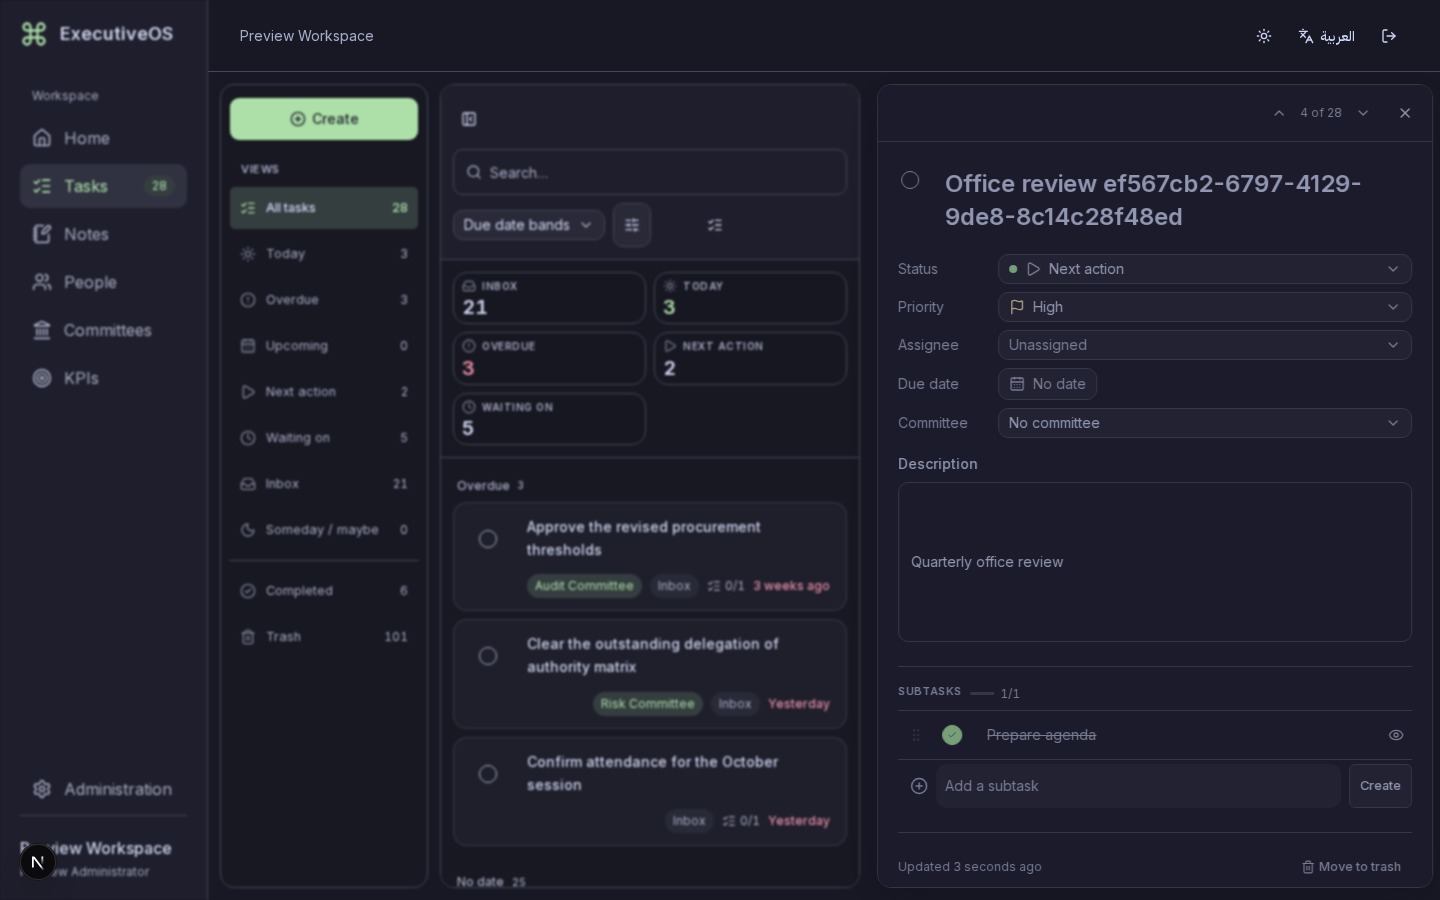
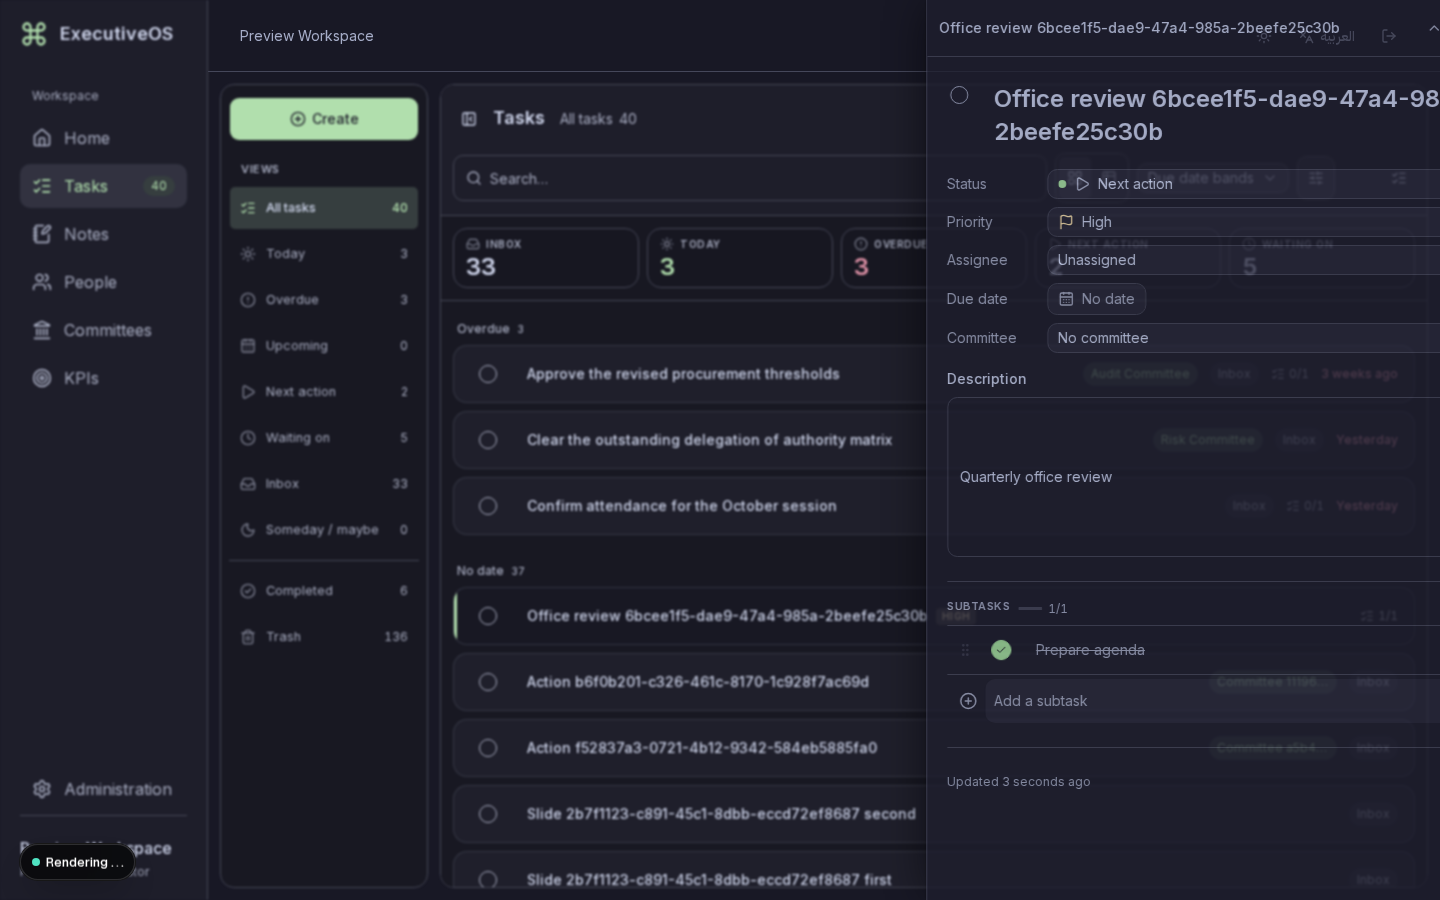
perf(entity): read and re-read a list without reloading it
EP-B30. Three things made these surfaces look like they were loading when they
were not.

Every piece of the entity URL — view, facets, sort, layout, the open record, the
selection — is read by the client surface and by nothing on the server, but it was
written through the router, so each of them fetched a route whose output cannot
change. Opening a record cost a server round-trip before the panel appeared. The
native history methods integrate with the router and useSearchParams, so back and
forward still work; the round-trips are gone (measured: one per open, now none).

A list whose query changed emptied to a placeholder and filled again. The reader
changed which question is being asked of the same records, not which records they
are looking at, so the previous page is held while the next loads and the rows
change where they stand. A genuine first load still shows the placeholder.

And every entity route's loading.tsx was a centred spinner, so opening Tasks went
spinner → placeholder rows → rows: three screens for one navigation, the first
looking nothing like the other two. Routes about to render a list now show the
shape of one. Measured in production: no spinner on any module, and a prefetched
navigation lands in 23–59 ms.

The record's renderer is still loaded on demand — a list route carries no chart
runtime it may never need — but the chunk is fetched once the list is on screen
rather than when a row is clicked.
[…]

diff --git a/src/ui/entity/use-entity-controller.ts b/src/ui/entity/use-entity-controller.ts
@@ -1,6 +1,6 @@
 'use client';
 import { useState, useEffect, useCallback, type RefObject } from 'react';
-import { usePathname, useRouter, useSearchParams } from 'next/navigation';
+import { usePathname, useSearchParams } from 'next/navigation';
 import { resolveUrlState, changeUrl, clearEntityFilters } from './url-state';
 import type { Entity, EntityPageProps, FiltersDef } from './types';
 import { useEntityNavigation } from './navigation';
@@ -11,7 +11,6 @@ export function useEntityController<T extends Entity, P extends object, C>(
   props: EntityPageProps<T, P, C>,
   root: RefObject<HTMLElement | null>,
 ) {
-  const router = useRouter();
   const path = usePathname();
   const params = useSearchParams();
   const guarded = useEntityNavigation();
@@ -28,7 +27,7 @@ export function useEntityController<T extends Entity, P extends object, C>(
   const [selecting, setSelecting] = useState(false);
   const [railOpen, setRailOpen] = useState(true);
   const [searchReset, setSearchReset] = useState(0);
-  const navigate = useGuardedNavigate(guarded, path, router);
+  const navigate = useGuardedNavigate(guarded, path);
   const close = useCallback(() => navigate({ id: null, new: null }), [navigate]);
   const neighbors = useEntityNeighbors(list, state.id, navigate);
   useDefaultView(list.defaultView, Boolean(state.id || state.creating));
@@ -71,21 +70,21 @@ export type EntityController<T extends Entity, P extends object, C> = ReturnType
   typeof useEntityController<T, P, C>
 >;
 
-function useGuardedNavigate(
-  guarded: (action: () => void) => void,
-  path: string,
-  router: ReturnType<typeof useRouter>,
-) {
+// EP-B30: every piece of state in this URL — the view, the filters, the open record, the selection
+// — is read by this client surface and by nothing on the server. Routing it through the router made
+// each of them a server round-trip for a route whose output never changes, which is why opening a
+// record fetched the page again before the panel appeared. The native history methods integrate
+// with the router and with `useSearchParams` (Next's linking guide, § Native History API), so back
+// and forward still work and the address bar still says what is on screen, without asking the
+// server to re-render a page it has no say in.
+function useGuardedNavigate(guarded: (action: () => void) => void, path: string) {
   return useCallback(
     (patch: Record<string, string | null>, replace = false) => {
       const query = changeUrl(new URLSearchParams(window.location.search), patch);
-      guarded(() =>
-        router[replace ? 'replace' : 'push'](`${path}${query ? '?' + query : ''}`, {
-          scroll: false,
-        }),
-      );
+      const url = `${path}${query ? '?' + query : ''}`;
+      guarded(() => window.history[replace ? 'replaceState' : 'pushState'](null, '', url));
     },
-    [guarded, path, router],
+    [guarded, path],
   );
 }
 type KeyboardArgs<T extends Entity> = {
@@ -125,16 +124,17 @@ function useControllerKeyboard<T extends Entity>(
 }
 function useDefaultView(defaultView: string | undefined, panel: boolean) {
   const params = useSearchParams();
-  const router = useRouter();
   const path = usePathname();
+  // EP-B30: this is client state, so the history entry is written directly rather than asking the
+  // server to re-render a route whose output it cannot change.
   // sync: record the module default view in the URL once counts arrive.
   useEffect(() => {
     if (!params.has('view') && !params.has('q') && defaultView && !panel) {
       const next = new URLSearchParams(params);
       next.set('view', defaultView);
-      router.replace(`${path}?${next}`, { scroll: false });
+      window.history.replaceState(null, '', `${path}?${next}`);
     }
-  }, [params, router, path, defaultView, panel]);
+  }, [params, path, defaultView, panel]);
 }
 function useEntityCreate<T extends Entity, C>(
   create: (input: C) => Promise<T | null>,

diff --git a/src/modules/kpis/service.ts b/src/modules/kpis/service.ts
@@ -49,19 +49,18 @@ async function scope(ctx: Context): Promise<Scope> {
 }
 const toKpi = (row: NonNullable<Row>, at: Scope) =>
   Kpi.parse({ ...row, meta: deriveMeta(row, at) });
-// KPIS-B07: the sort keys are the cursor tuple. The default files the scorecard under the
-// objectives it serves, severity first inside each. Objectives are alphabetical rather than ranked
-// by their worst measure: a scorecard is read on the cadence it reports on, and an order that
-// reshuffles as statuses change costs what repetition buys. Unfiled measures go last.
-function keyOf(item: Kpi, sort: string): Tuple {
+// KPIS-B07: the sort keys are the cursor tuple. The default files the scorecard under its
+// objectives, alphabetically, severity first inside each, unfiled last. `rank` holds severity to
+// today's reading so a comparison never reshuffles the page (KPIS-B26).
+function keyOf(item: Kpi, sort: string, rank?: number): Tuple {
   const name = item.name.toLocaleLowerCase();
   if (sort === 'name') return [name, item.id];
   if (sort === 'change') {
     const change = item.meta.percentChange;
     return [change === null ? 1 : 0, change === null ? 0 : -change, name, item.id];
   }
-  const objective = (item.objectiveName ?? '').toLocaleLowerCase();
-  return [item.objectiveId ? 0 : 1, objective, severityRank[item.meta.status], name, item.id];
+  const filed = (item.objectiveName ?? '').toLocaleLowerCase();
+  return [item.objectiveId ? 0 : 1, filed, rank ?? severityRank[item.meta.status], name, item.id];
 }
 function inView(item: Kpi, view: string) {
   if (view === 'trash') return Boolean(item.deletedAt);
@@ -73,18 +72,19 @@ function inView(item: Kpi, view: string) {
 const views = ['all', 'attention', ...KpiStatus.options, 'trash'];
 export async function listKpis(ctx: Context, query: KpiListQuery) {
   const at = await scope(ctx);
-  const rows = await repo.selectKpis(ctx.db, query, {
-    today: at.today,
-    fromYear: Number(at.today.slice(0, 4)) - 1,
-  });
-  // KPIS-B26: one period for the page, applied before every status, count and sort key below.
+  const window = { today: at.today, fromYear: Number(at.today.slice(0, 4)) - 1 };
+  const rows = await repo.selectKpis(ctx.db, query, window);
+  // KPIS-B26: one period for the page, ahead of every status and count — never the order. A
+  // comparison changes what a measure says, not where it sits, so severity is ranked to today's
+  // reading and stepping leaves every card exactly where the reader last saw it.
   const shift = query.period === 'previous' ? -1 : query.period === 'next' ? 1 : 0;
+  const rank = new Map(rows.map((row) => [row.id, severityRank[deriveMeta(row, at).status]]));
   const all = rows.map((row) => toKpi(row, { ...at, offset: shift }));
   const { cursor, ...filters } = query;
   const hash = filtersHash({ ...filters, date: at.today });
   const ranked: Keyed[] = all
     .filter((item) => inView(item, query.view))
-    .map((item) => ({ item, key: keyOf(item, query.sort) }))
+    .map((item) => ({ item, key: keyOf(item, query.sort, rank.get(item.id)) }))
     .sort((left, right) => compareTuples(left.key, right.key));
   const after = decodeTupleCursor(cursor, query.sort, hash);
   const remaining = after ? ranked.filter((row) => compareTuples(row.key, after) > 0) : ranked;

diff --git a/src/modules/kpis/ui/queries.ts b/src/modules/kpis/ui/queries.ts
@@ -1,8 +1,9 @@
 'use client';
-import { useInfiniteQuery, useQuery, useQueryClient } from '@tanstack/react-query';
+import { keepPreviousData, useInfiniteQuery, useQuery, useQueryClient } from '@tanstack/react-query';
 import { z } from 'zod';
 import { request } from '@/core/http/client';
 import type { Filters } from '@/ui/entity/types';
+import { listResult } from '@/ui/entity/queries';
 import {
   KpiDetail,
   KpiList,
@@ -34,21 +35,13 @@ export function useKpis(filters: Filters) {
       ),
     getNextPageParam: (last) => last.meta.nextCursor ?? undefined,
     refetchInterval: 60000,
+    // EP-B30: the reader changed which question is being asked of the same records, not which
+    // records they are looking at. Holding the previous page means the rows change where they
+    // stand instead of the list emptying to a placeholder and filling again, which reads as the
+    // page reloading. The first load has nothing to hold and still shows the placeholder.
+    placeholderData: keepPreviousData,
   });
-  return {
-    items: query.data?.pages.flatMap((page) => page.data) ?? [],
-    counts: query.data?.pages[0]?.meta.counts ?? {},
-    defaultView: 'all',
-    pending: query.isPending,
-    error: query.error,
-    more: query.hasNextPage,
-    fetchMore: async () => {
-      await query.fetchNextPage();
-    },
-    refetch: () => {
-      void query.refetch();
-    },
-  };
+  return { ...listResult(query), defaultView: 'all' };
 }
 // The detail endpoint answers with the whole record, so the framework's row object and the panel's
 // readings and targets come from one request and one cache entry.

diff --git a/src/modules/committees/ui/queries.ts b/src/modules/committees/ui/queries.ts
@@ -1,5 +1,5 @@
 'use client';
-import { useInfiniteQuery, useQuery, useQueryClient } from '@tanstack/react-query';
+import { keepPreviousData, useInfiniteQuery, useQuery, useQueryClient } from '@tanstack/react-query';
 import { z } from 'zod';
 import { request } from '@/core/http/client';
 import type { Filters } from '@/ui/entity/types';
@@ -8,7 +8,8 @@ const response = z.object({ data: Committee });
 export function useCommittees(filters: Filters) {
   const query = useInfiniteQuery({ queryKey: ['committees', 'list', filters], initialPageParam: '',
     queryFn: ({ pageParam }) => request(`/committees?${new URLSearchParams(Object.entries({ ...filters, cursor: pageParam }).filter(([, value]) => value !== ''))}`, CommitteeList),
-    getNextPageParam: (last) => last.meta.nextCursor ?? undefined, refetchInterval: 30000 });
+    getNextPageParam: (last) => last.meta.nextCursor ?? undefined, refetchInterval: 30000,
+    placeholderData: keepPreviousData });
   return { items: query.data?.pages.flatMap((page) => page.data) ?? [], counts: query.data?.pages[0]?.meta.counts ?? {},
     summaryCounts: query.data?.pages[0]?.meta.taskStats, defaultView: 'active', pending: query.isPending, error: query.error,
     more: query.hasNextPage, fetchMore: async () => { await query.fetchNextPage(); }, refetch: () => { void query.refetch(); } };

diff --git a/src/ui/entity/EntityPlaceholder.tsx b/src/ui/entity/EntityPlaceholder.tsx
@@ -1,0 +1,24 @@
+'use client';
+import { PagePlaceholder } from '@/ui/layout/PageTransition';
+import { EntityListSkeleton } from './EntityStates';
+// EP-B30: what a module shows while its route arrives. It used to be a centred spinner, which meant
+// opening Tasks went spinner → placeholder rows → rows: three screens for one navigation, and the
+// first of them looked nothing like the other two. A route that is about to render a list shows the
+// shape of that list instead, so the page appears at once and fills in, rather than appearing to
+// load twice. The rail and bar are drawn as empty surfaces because their content is per module and
+// a guess at it would be a fourth thing that changes.
+export default function EntityPlaceholder() {
+  return (
+    <PagePlaceholder>
+      <section className="entity-page min-w-0">
+        <div className="entity-workspace flex min-h-0 flex-1 overflow-hidden lg:gap-3 lg:p-3">
+          <aside className="entity-rail hidden w-[208px] shrink-0 rounded-xl border bg-surface xl:block" />
+          <div className="min-w-0 flex-1 overflow-hidden bg-surface lg:rounded-xl lg:border">
+            <div className="h-[104px] border-b bg-surface" />
+            <EntityListSkeleton />
+          </div>
+        </div>
+      </section>
+    </PagePlaceholder>
+  );
+}

diff --git a/src/modules/people/ui/queries.ts b/src/modules/people/ui/queries.ts
@@ -1,5 +1,5 @@
 'use client';
-import { useInfiniteQuery, useQuery, useQueryClient } from '@tanstack/react-query';
+import { keepPreviousData, useInfiniteQuery, useQuery, useQueryClient } from '@tanstack/react-query';
 import { z } from 'zod';
 import { request } from '@/core/http/client';
 import {
@@ -10,6 +10,7 @@ import {
   PersonPatch,
 } from '../schema/validation';
 import type { Filters } from '@/ui/entity/types';
+import { listResult } from '@/ui/entity/queries';
 export function usePeople(filters: Filters) {
   const result = useInfiniteQuery({
     queryKey: ['people', 'list', filters],
@@ -26,20 +27,9 @@ export function usePeople(filters: Filters) {
         PersonList,
       ),
     getNextPageParam: (last) => last.meta.nextCursor ?? undefined,
+    placeholderData: keepPreviousData,
   });
-  return {
-    items: result.data?.pages.flatMap((page) => page.data) ?? [],
-    counts: result.data?.pages[0]?.meta.counts ?? {},
-    pending: result.isPending,
-    error: result.error,
-    more: result.hasNextPage,
-    fetchMore: async () => {
-      await result.fetchNextPage();
-    },
-    refetch: () => {
-      void result.refetch();
-    },
-  };
+  return listResult(result);
 }
 export function usePerson(id: string | null, trash: boolean) {
   const result = useQuery({

diff --git a/src/modules/tasks/ui/TasksPage.tsx b/src/modules/tasks/ui/TasksPage.tsx
@@ -20,11 +20,13 @@ import { sortOptions } from '@/ui/entity/filters';
 import { View, Priority, Sort } from '../schema/validation';
 import { useTasks, useTask, useTaskMutations, useOwners } from './queries';
 import { TaskRow, TaskTrail } from './TaskRow';
-const TaskDetail = dynamic(() => import('./TaskDetail').then((module) => module.TaskDetail));
+const importRecord = () => import('./TaskDetail');
+const TaskDetail = dynamic(() => importRecord().then((module) => module.TaskDetail));
 import { TaskToggle } from './TaskToggle';
 const CreateTask = dynamic(() => import('./CreateTask').then((module) => module.CreateTask));
 import { GroupTasksDialog, canGroup } from './GroupTasks';
 import { useTaskColumns } from './TaskColumns';
+import { usePrefetch } from '@/ui/entity/use-prefetch';
 // Rail icons, the count strip (featured) and the archive divider per view.
 const presentation: Record<string, Partial<ViewDef>> = {
   all: { icon: ListChecks },
@@ -75,6 +77,7 @@ export function TasksPage() {
   const c = useTranslations('common');
   const mutations = useTaskMutations();
   const columns = useTaskColumns();
+  usePrefetch(importRecord);
   const filters = useTaskFilters();
   return (
     <EntityPage

diff --git a/src/ui/entity/use-prefetch.ts b/src/ui/entity/use-prefetch.ts
@@ -1,0 +1,18 @@
+'use client';
+import { useEffect } from 'react';
+// EP-B30: a record's renderer is loaded on demand, so a list route never carries a chart runtime it
+// may never need (docs/05). That download must not be what the reader waits through, though: the
+// first row opened on a fresh page paused while the chunk arrived, and every row after it opened
+// instantly — the record appeared to load once and then never again, which is exactly what it was
+// doing. It is fetched shortly after the list is on screen instead, so by the time anything is
+// clicked the module is already cached.
+//
+// `load` has to be stable, which means module scope. A fresh arrow function per render would make
+// this run again on every one.
+export function usePrefetch(load: () => Promise<object>) {
+  // sync: a network fetch for code, deliberately outside anything React is rendering.
+  useEffect(() => {
+    const timer = setTimeout(() => void load().catch(() => undefined), 300);
+    return () => clearTimeout(timer);
+  }, [load]);
+}

diff --git a/src/modules/committees/ui/CommitteesPage.tsx b/src/modules/committees/ui/CommitteesPage.tsx
@@ -10,11 +10,14 @@ import { Scope, Sort, type Committee } from '../schema/validation';
 import { useCommittees, useCommittee, useCommitteeMutations } from './queries';
 import { CreateCommittee } from './CreateCommittee';
 import { useCommitteeColumns } from './CommitteeColumns';
-const CommitteeDetail = dynamic(() => import('./CommitteeDetail').then((module) => module.CommitteeDetail));
+import { usePrefetch } from '@/ui/entity/use-prefetch';
+const importRecord = () => import('./CommitteeDetail');
+const CommitteeDetail = dynamic(() => importRecord().then((module) => module.CommitteeDetail));
 export function CommitteesPage() {
   const t = useTranslations('committees');
   const mutations = useCommitteeMutations();
   const columns = useCommitteeColumns();
+  usePrefetch(importRecord);
   return <EntityPage module="committees" title={t('title')} description={t('intro')}
     filters={{ views: [
       { id: 'active', label: t('active'), icon: Landmark }, { id: 'all', label: t('all'), icon: Landmark },

diff --git a/src/ui/entity/queries.ts b/src/ui/entity/queries.ts
@@ -1,0 +1,23 @@
+import type { InfiniteData, UseInfiniteQueryResult } from '@tanstack/react-query';
+import type { Entity, ListResult } from './types';
+// Every module's list hook turns the same shape of paged response into the same `ListResult`. That
+// mapping is the framework's contract rather than each module's business, so it lives here: five
+// copies of it drift, and the one that drifts is the one nobody looks at.
+type Page<T> = { data: T[]; meta: { counts?: Record<string, number>; nextCursor: string | null } };
+export function listResult<T extends Entity>(
+  query: UseInfiniteQueryResult<InfiniteData<Page<T>>, Error>,
+): ListResult<T> {
+  return {
+    items: query.data?.pages.flatMap((page) => page.data) ?? [],
+    counts: query.data?.pages[0]?.meta.counts ?? {},
+    pending: query.isPending,
+    error: query.error,
+    more: query.hasNextPage,
+    fetchMore: async () => {
+      await query.fetchNextPage();
+    },
+    refetch: () => {
+      void query.refetch();
+    },
+  };
+}

diff --git a/src/modules/notes/ui/NotesPage.tsx b/src/modules/notes/ui/NotesPage.tsx
@@ -30,10 +30,12 @@ import {
 } from './queries';
 import { useTypeLabel } from './use-note-labels';
 import { NoteRow, NoteTrail } from './NoteRow';
-const NoteDetail = dynamic(() => import('./NoteDetail').then((module) => module.NoteDetail));
+const importRecord = () => import('./NoteDetail');
+const NoteDetail = dynamic(() => importRecord().then((module) => module.NoteDetail));
 import { CreateNote } from './CreateNote';
 import { AddTagDialog } from './AddTagDialog';
 import { useNoteColumns } from './NoteColumns';
+import { usePrefetch } from '@/ui/entity/use-prefetch';
 const presentation: Record<string, Partial<ViewDef>> = {
   all: { icon: NotebookPen },
   this_week: { icon: CalendarDays, featured: 'compact', tone: 'accent' },
@@ -107,6 +109,7 @@ export function NotesPage() {
   const c = useTranslations('common');
   const mutations = useNoteMutations();
   const columns = useNoteColumns();
+  usePrefetch(importRecord);
   const filters = useNoteFilters();
   return (
     <EntityPage

diff --git a/src/modules/notes/ui/queries.ts b/src/modules/notes/ui/queries.ts
@@ -1,5 +1,5 @@
 'use client';
-import { useInfiniteQuery, useQuery, useQueryClient } from '@tanstack/react-query';
+import { keepPreviousData, useInfiniteQuery, useQuery, useQueryClient } from '@tanstack/react-query';
 import { z } from 'zod';
 import { request } from '@/core/http/client';
 import { PersonList, PersonCreated, personDraft } from '@/modules/people/schema/validation';
@@ -24,6 +24,7 @@ export function useNotes(filters: Filters) {
     queryFn: ({ pageParam }) =>
       request(`/notes?${query({ ...filters, cursor: pageParam })}`, NoteList),
     getNextPageParam: (last) => last.meta.nextCursor ?? undefined,
+    placeholderData: keepPreviousData,
   });
   const counts: Record<string, number> = list.data?.pages[0]?.meta.counts ?? {};
   return {
